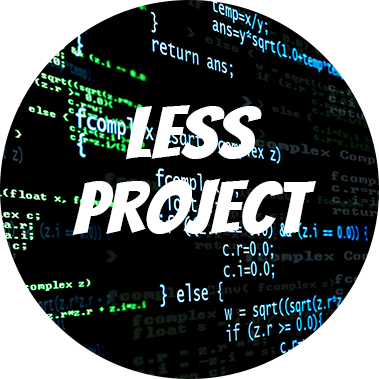
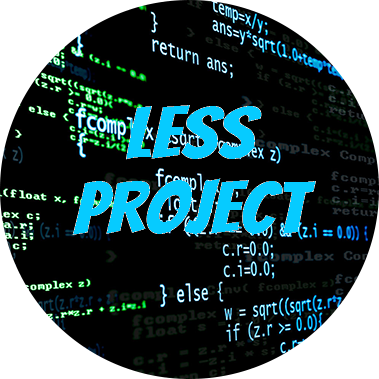
WIP added colors and changed header image to match

Changed region(s): [[0.1741, 0.4644, 0.8417, 0.6385], [0.3193, 0.2612, 0.6966, 0.4354]]

diff --git a/less/index.less b/less/index.less
@@ -1,16 +1,16 @@
 //variables
-@link-color: #b0b0b0;
-@hover-color: #000000;
-@bg-color: #ffffff;
+@link-color: #000000;
+@hover-color: #02c94d;
+@bg-color: #06cbff;
 @border-color: #000000;
-@button-hover: #000000;
+@button-hover: #02c94d;
 @button-txt-hover: #ffffff;
 
 // Is this working?
-/* http://meyerweb.com/eric/tools/css/reset/ 
-   v2.0 | 20110126
-   License: none (public domain)
-*/
+// http://meyerweb.com/eric/tools/css/reset/ 
+// v2.0 | 20110126
+// License: none (public domain)
+
 
 html, body, div, span, applet, object, iframe,
 h1, h2, h3, h4, h5, h6, p, blockquote, pre,
@@ -32,13 +32,14 @@ time, mark, audio, video {
 	font: inherit;
 	vertical-align: baseline;
 }
-/* HTML5 display-role reset for older browsers */
+// HTML5 display-role reset for older browsers 
 article, aside, details, figcaption, figure, 
 footer, header, hgroup, menu, nav, section {
 	display: block;
 }
 body {
-	line-height: 1;
+    line-height: 1;
+    background-color: @bg-color;
 }
 ol, ul {
 	list-style: none;
@@ -56,7 +57,7 @@ table {
 	border-spacing: 0;
 }
 
-/* Set every element's box-sizing to border-box */
+//  Set every element's box-sizing to border-box 
 * {
     box-sizing: border-box;
 }
@@ -77,7 +78,7 @@ h1, h2, h3, h4, h5 {
     margin: auto;
 }
 
-/* Header Styles */
+// Header Styles 
 
 header {
     width: 100%;
@@ -92,12 +93,12 @@ header {
         li a {
             text-decoration: none;
             color: @link-color;
-        }
-            a:hover {
+        
+            &:hover {
                 text-decoration: underline;
                 color: @hover-color;
                 }
-        
+            }
     
 
 
@@ -106,7 +107,7 @@ header .logo {
     margin: 28px 0 0 91px;
 }
 
-/* Call To Action (CTA) Styles */
+// Call To Action (CTA) Styles
 
 .cta {
     display: flex;
@@ -140,7 +141,7 @@ header .logo {
     }
 
 
-/* Main Content Styles */
+// Main Content Styles 
 
 .main-content {
    border-top: 2px solid @border-color; 
@@ -149,34 +150,35 @@ header .logo {
    padding: 35px 0;
    font-size: 16px;
    line-height: 18px;
+
+
+    .top-content {
+        display: flex;
+        justify-content: space-around;
 }
 
-.main-content .top-content {
+        .middle-img {
+            display: block;
+            margin: 30px auto;
+}
+
+    .bottom-content {
     display: flex;
     justify-content: space-around;
-}
-
-.main-content .middle-img {
-    display: block;
-    margin: 30px auto;
-}
-
-.main-content .bottom-content {
-    display: flex;
-    justify-content: space-around;
+    }
 }
 
 .main-content .bottom-content p {
     padding-right: 20px;
 }
 
-/* Contact Styles */
+// Contact Styles 
 
 .contact p {
     margin: 15px 0;
 }
 
-/* Footer Styles */
+// Footer Styles 
 
 footer {
     text-align: center;

diff --git a/css/index.css b/css/index.css
@@ -1,7 +1,3 @@
-/* http://meyerweb.com/eric/tools/css/reset/ 
-   v2.0 | 20110126
-   License: none (public domain)
-*/
 html,
 body,
 div,
@@ -90,7 +86,6 @@ video {
   font: inherit;
   vertical-align: baseline;
 }
-/* HTML5 display-role reset for older browsers */
 article,
 aside,
 details,
@@ -106,6 +101,7 @@ section {
 }
 body {
   line-height: 1;
+  background-color: #06cbff;
 }
 ol,
 ul {
@@ -126,7 +122,6 @@ table {
   border-collapse: collapse;
   border-spacing: 0;
 }
-/* Set every element's box-sizing to border-box */
 * {
   box-sizing: border-box;
 }
@@ -148,7 +143,6 @@ h5 {
   width: 880px;
   margin: auto;
 }
-/* Header Styles */
 header {
   width: 100%;
   display: flex;
@@ -161,17 +155,16 @@ nav ul {
 }
 li a {
   text-decoration: none;
-  color: #b0b0b0;
-}
-a:hover {
-  text-decoration: underline;
   color: #000000;
+}
+li a:hover {
+  text-decoration: underline;
+  color: #02c94d;
 }
 header .logo {
   align-self: flex-end;
   margin: 28px 0 0 91px;
 }
-/* Call To Action (CTA) Styles */
 .cta {
   display: flex;
   margin-top: 72px;
@@ -190,17 +183,16 @@ header .logo {
 .cta .cta-text button {
   border: 1px double #000000;
   font-size: 16px;
-  background: #ffffff;
+  background: #06cbff;
   width: 170px;
   height: 32px;
   margin-top: 10px;
   cursor: pointer;
 }
 .cta .cta-text button:hover {
-  background: #000000;
+  background: #02c94d;
   color: #ffffff;
 }
-/* Main Content Styles */
 .main-content {
   border-top: 2px solid #000000;
   border-bottom: 2px solid #000000;
@@ -224,11 +216,9 @@ header .logo {
 .main-content .bottom-content p {
   padding-right: 20px;
 }
-/* Contact Styles */
 .contact p {
   margin: 15px 0;
 }
-/* Footer Styles */
 footer {
   text-align: center;
   margin: 40px 0 20px;
